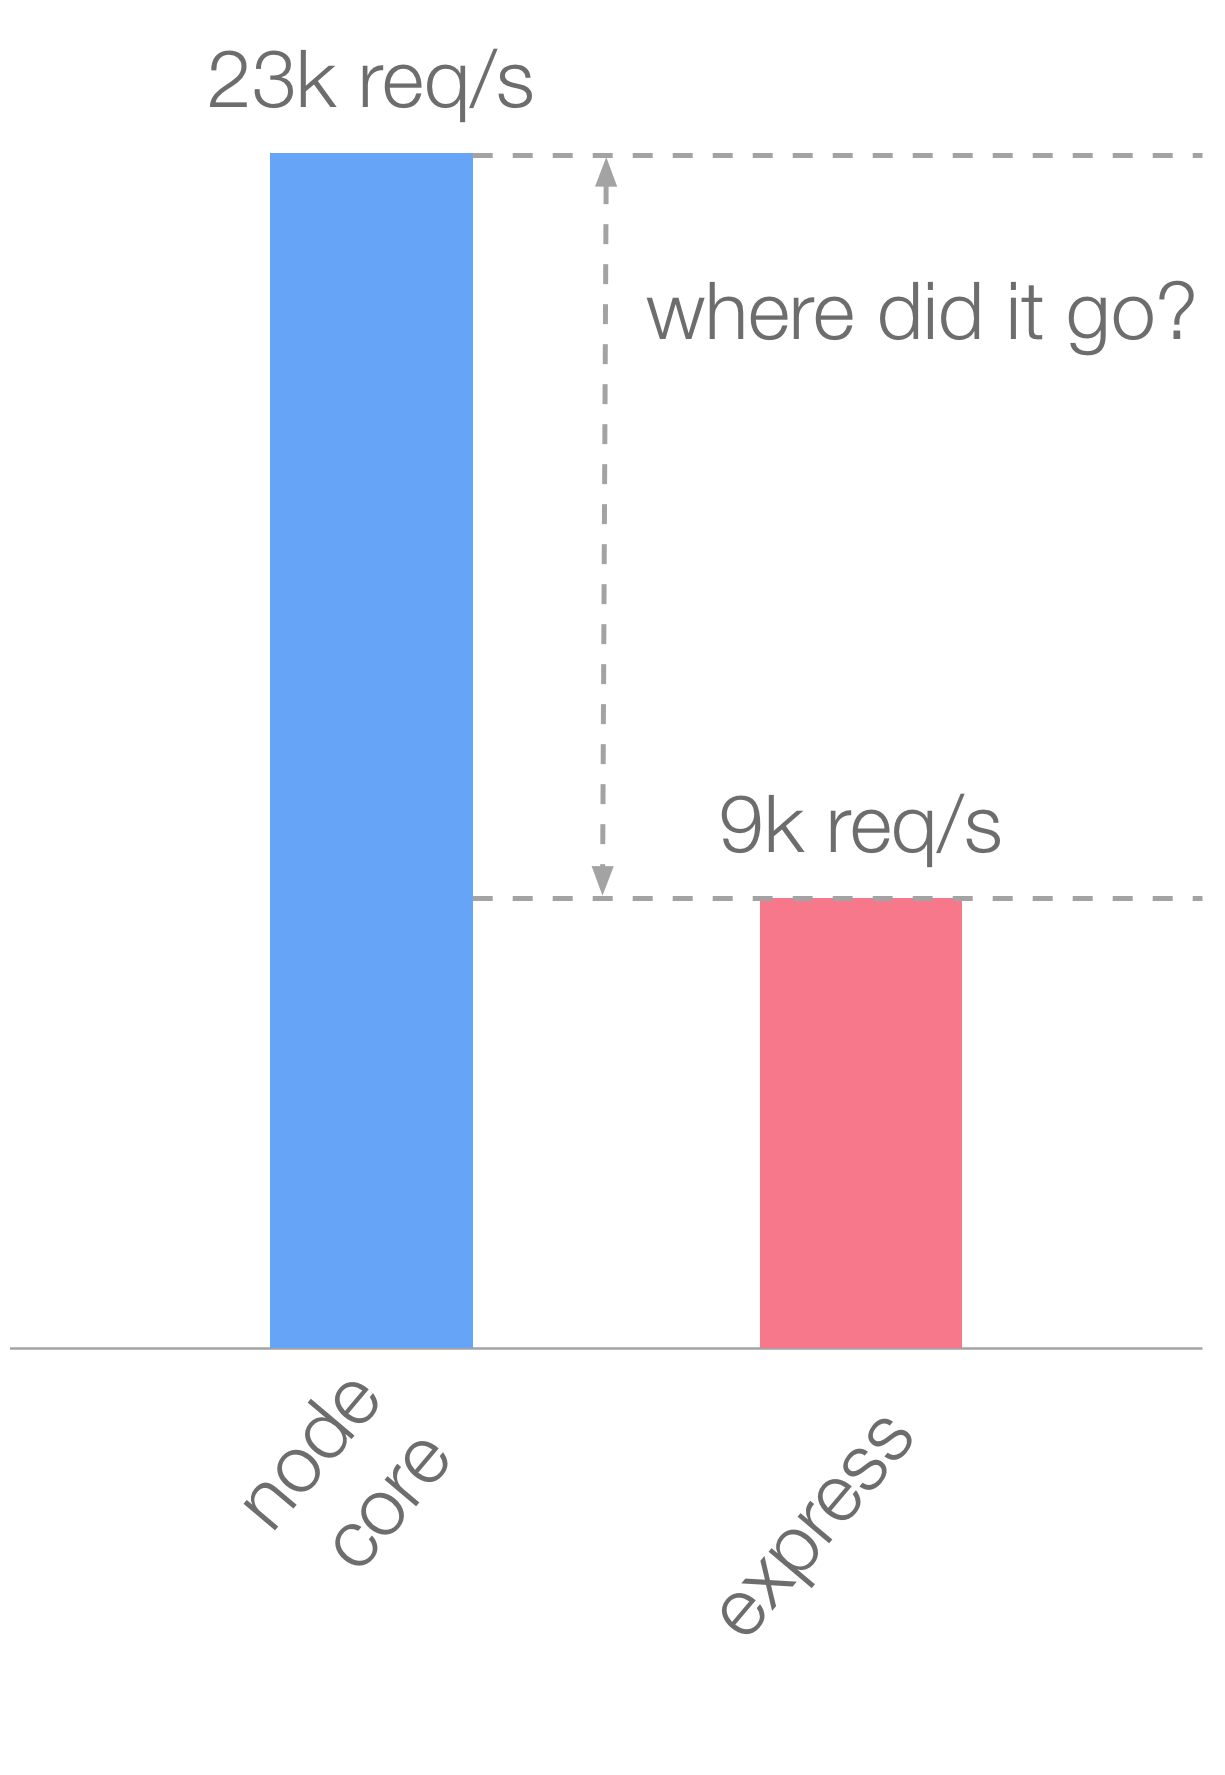
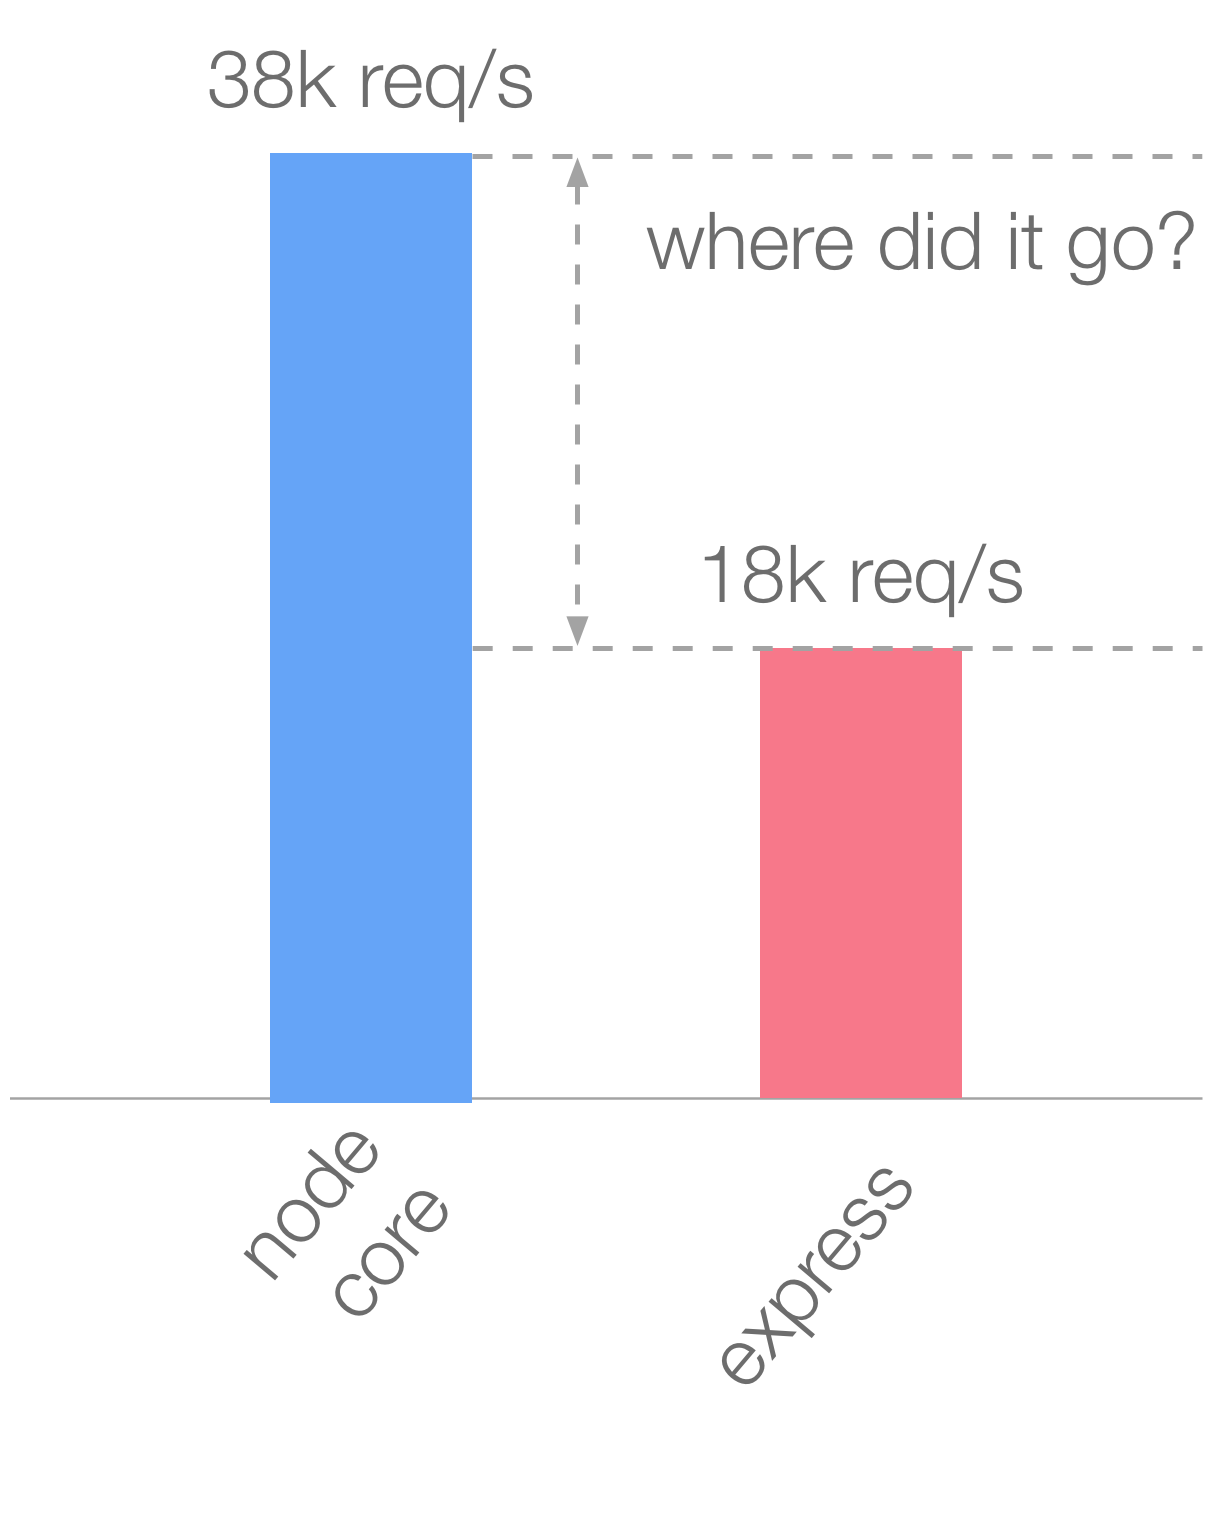
A first pass at updating things

diff --git a/bench/find-my-way-fast-json-stringify.js b/bench/find-my-way-fast-json-stringify.js
@@ -1,0 +1,19 @@
+'use strict'
+
+const router = require('find-my-way')()
+const server = require('http').createServer(router.lookup.bind(router))
+const stringify = require('fast-json-stringify')({
+  type: 'object',
+  properties: {
+    hello: {
+      type: 'string'
+    }
+  }
+})
+
+server.listen(3000)
+
+router.on('GET', '/', function root (req, res, params) {
+  res.setHeader('Content-Type', 'application/json')
+  res.end(stringify({ hello: 'world' }))
+})

diff --git a/bench/bare-with-fast-json-stringify.js b/bench/bare-with-fast-json-stringify.js
@@ -1,0 +1,18 @@
+'use strict'
+
+const server = require('http').createServer(handle)
+const stringify = require('fast-json-stringify')({
+  type: 'object',
+  properties: {
+    hello: {
+      type: 'string'
+    }
+  }
+})
+
+server.listen(3000)
+
+function handle (req, res) {
+  res.setHeader('Content-Type', 'application/json')
+  res.end(stringify({ hello: 'world' }))
+}

diff --git a/bench/bare.js b/bench/bare.js
@@ -1,0 +1,10 @@
+'use strict'
+
+var server = require('http').createServer(handle)
+
+server.listen(3000)
+
+function handle (req, res) {
+  res.setHeader('Content-Type', 'application/json')
+  res.end(JSON.stringify({ hello: 'world' }))
+}

diff --git a/bench/express.js b/bench/express.js
@@ -1,0 +1,13 @@
+'use strict'
+
+var express = require('express')
+var app = express()
+
+app.disable('etag')
+app.disable('x-powered-by')
+
+app.get('/', function (req, res) {
+  res.json({ hello: 'world' })
+})
+
+app.listen(3000)
